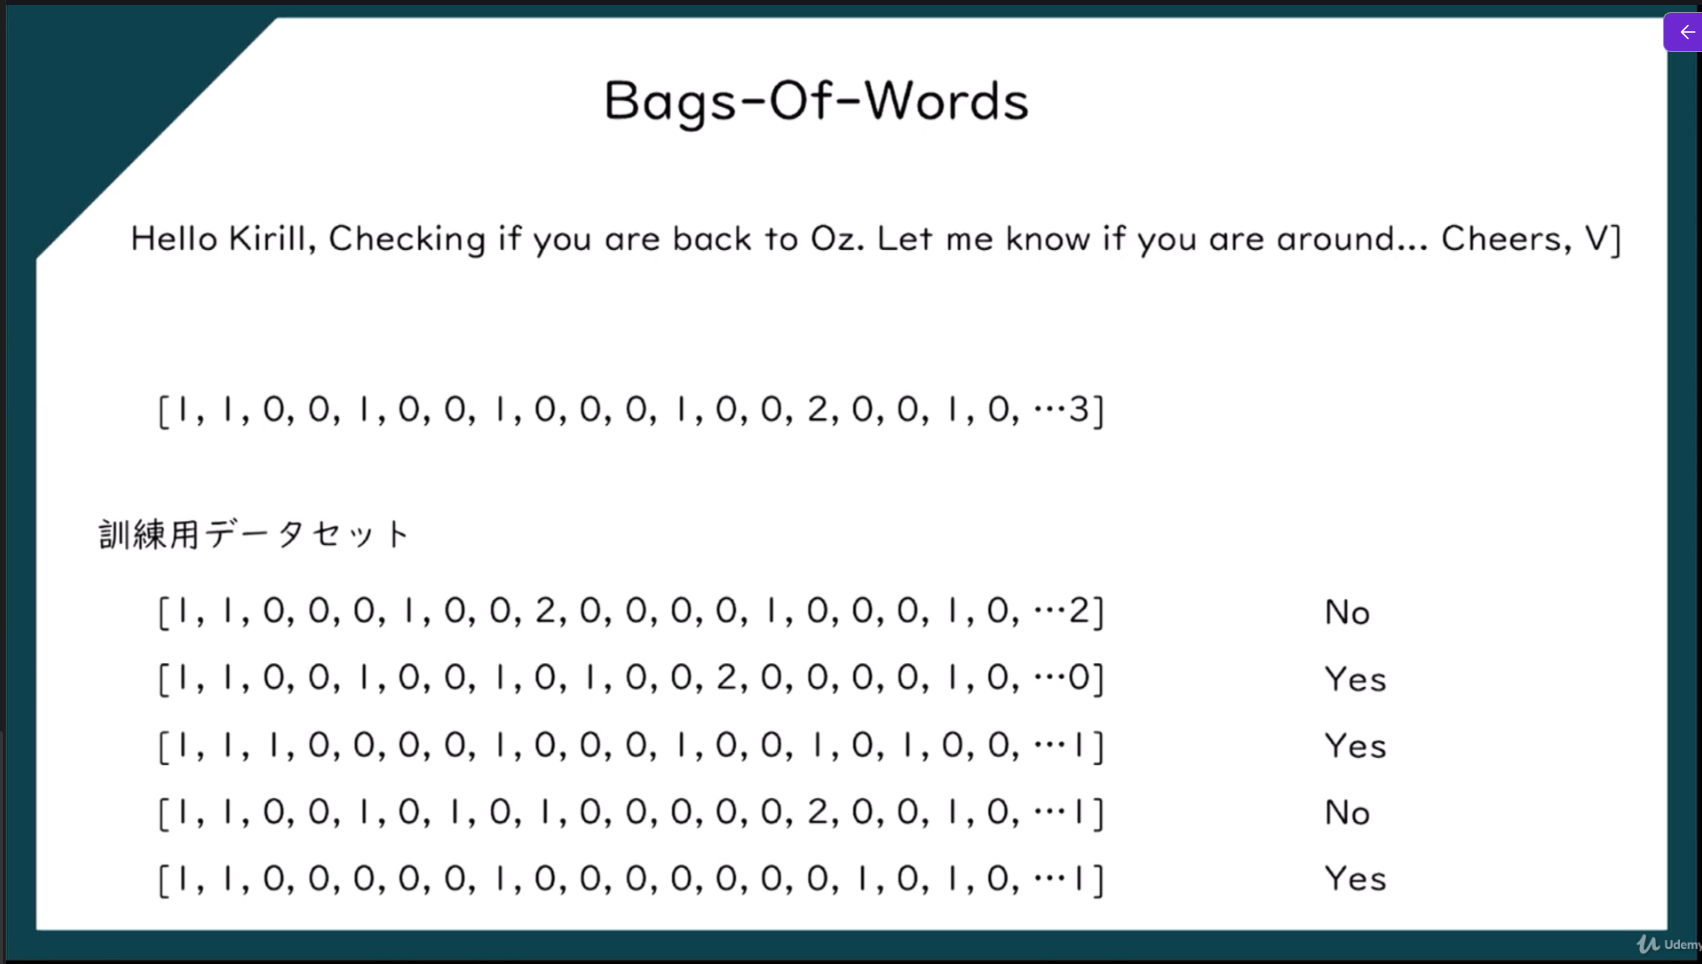
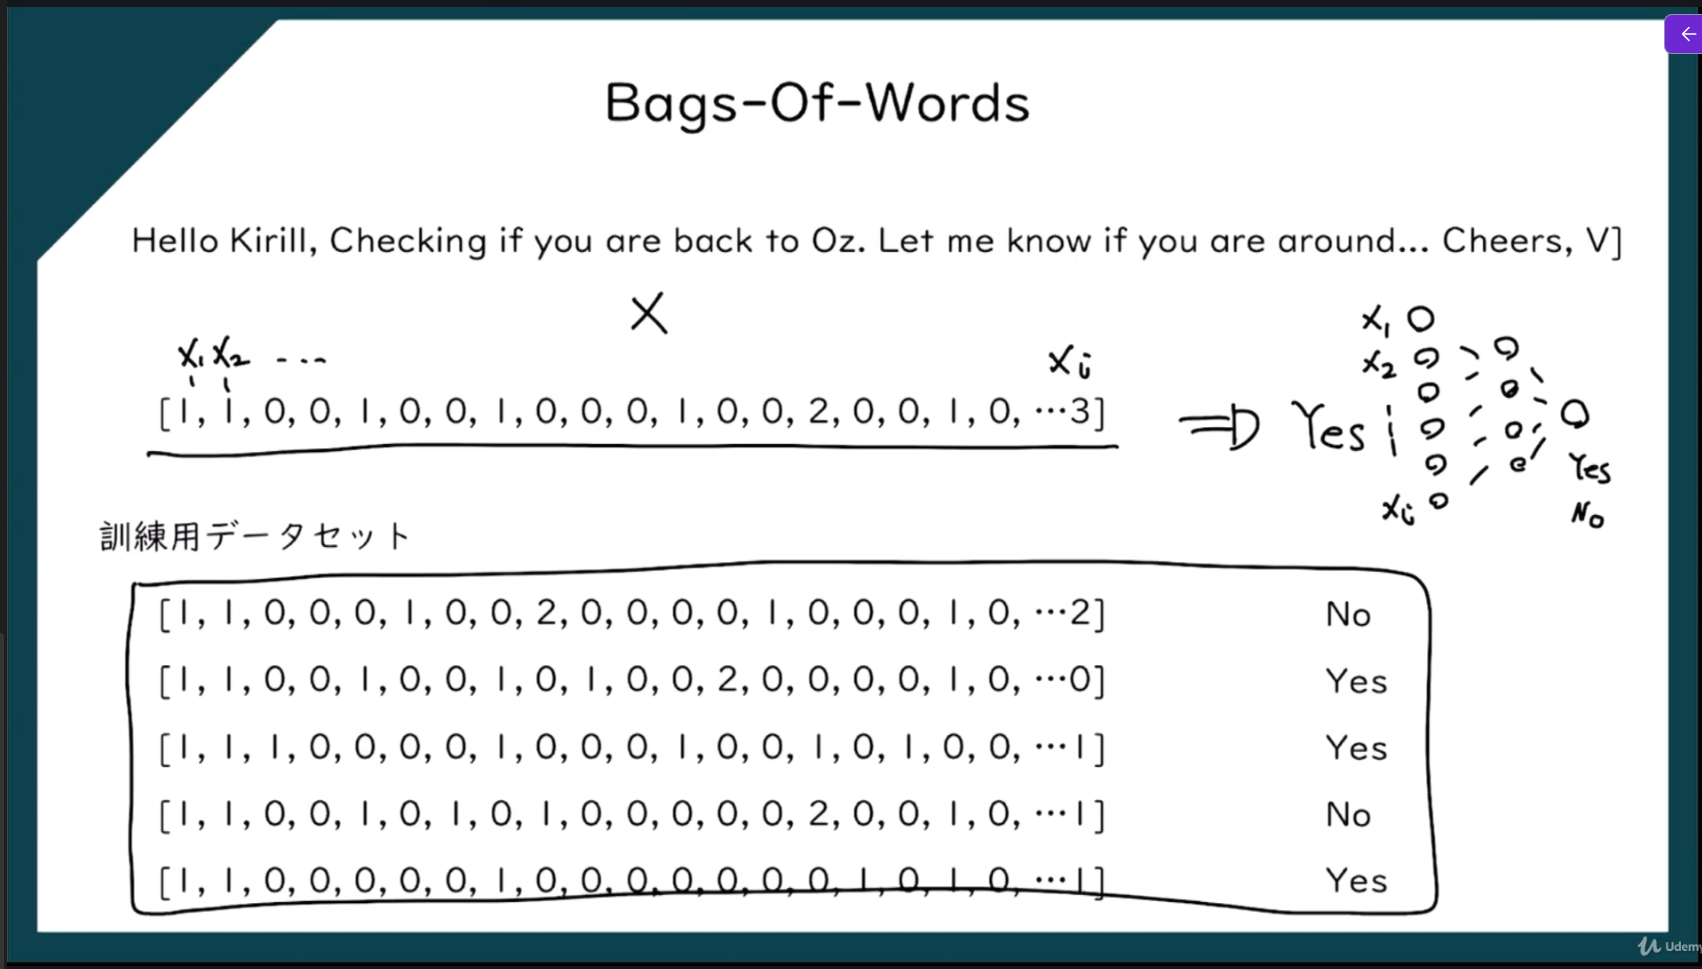
Update notes at 2026-03-14 01:38:58

diff --git a/機械学習/8.自然言語処理（Natural Language Processing）.md b/機械学習/8.自然言語処理（Natural Language Processing）.md
@@ -60,8 +60,9 @@
 ### 学習方法
 
 ![NLP3](pic/71.png)
-※英文独立変数
+![NLP4](pic/72.png)
+※英文（独立変数）：単語のままでは学習できないため、ベクトル（数字）に変換して学習する
 ※回答予測（Yes/No）が従属変数
 
-![NLP4](pic/72.png)
+### Bags-Of-Wordsの実装
 
